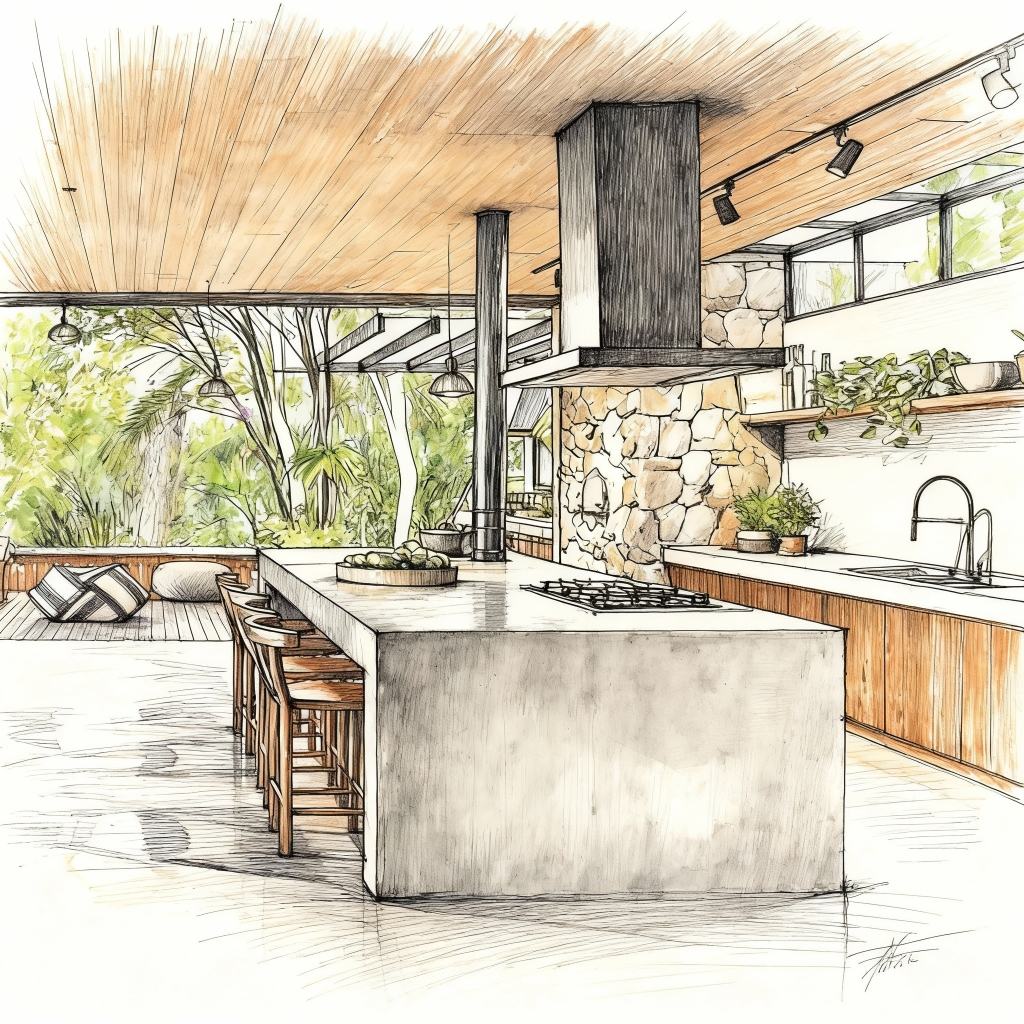
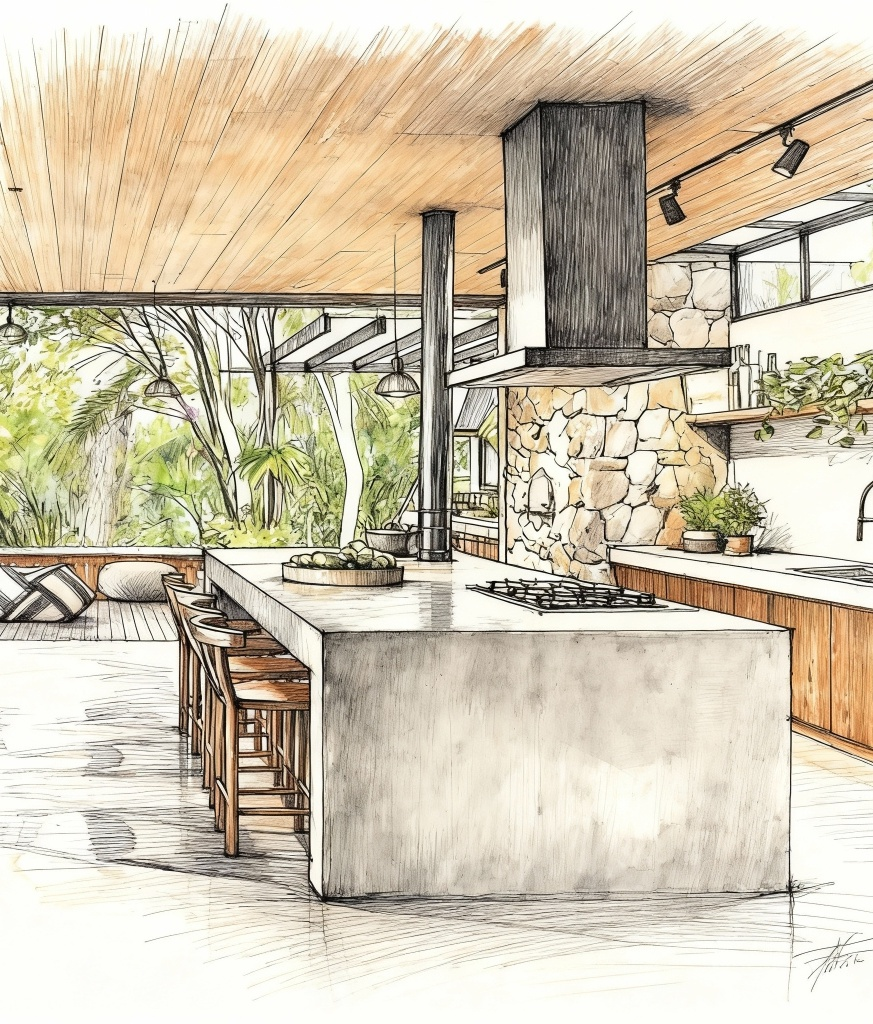
fix: pixel-perfect before/after slider alignment and constant sizing reveal

diff --git a/index.html b/index.html
@@ -435,6 +435,7 @@ body.is-hovering #cur-ring{width:72px;height:72px;background:rgba(14,14,14,.05);
   left: 0;
   width: 100%;
   height: 100%;
+  max-width: none !important;
   object-fit: cover;
   object-position: center;
   pointer-events: none;
@@ -1283,6 +1284,9 @@ function initSlider() {
       const percent = pos * 100;
       overlay.style.width = percent + '%';
       handle.style.left = percent + '%';
+      
+      // Explicitly lock the overlay image's width during sliding
+      imgBefore.style.width = rect.width + 'px';
     };
 
     const onStart = (e) => {
